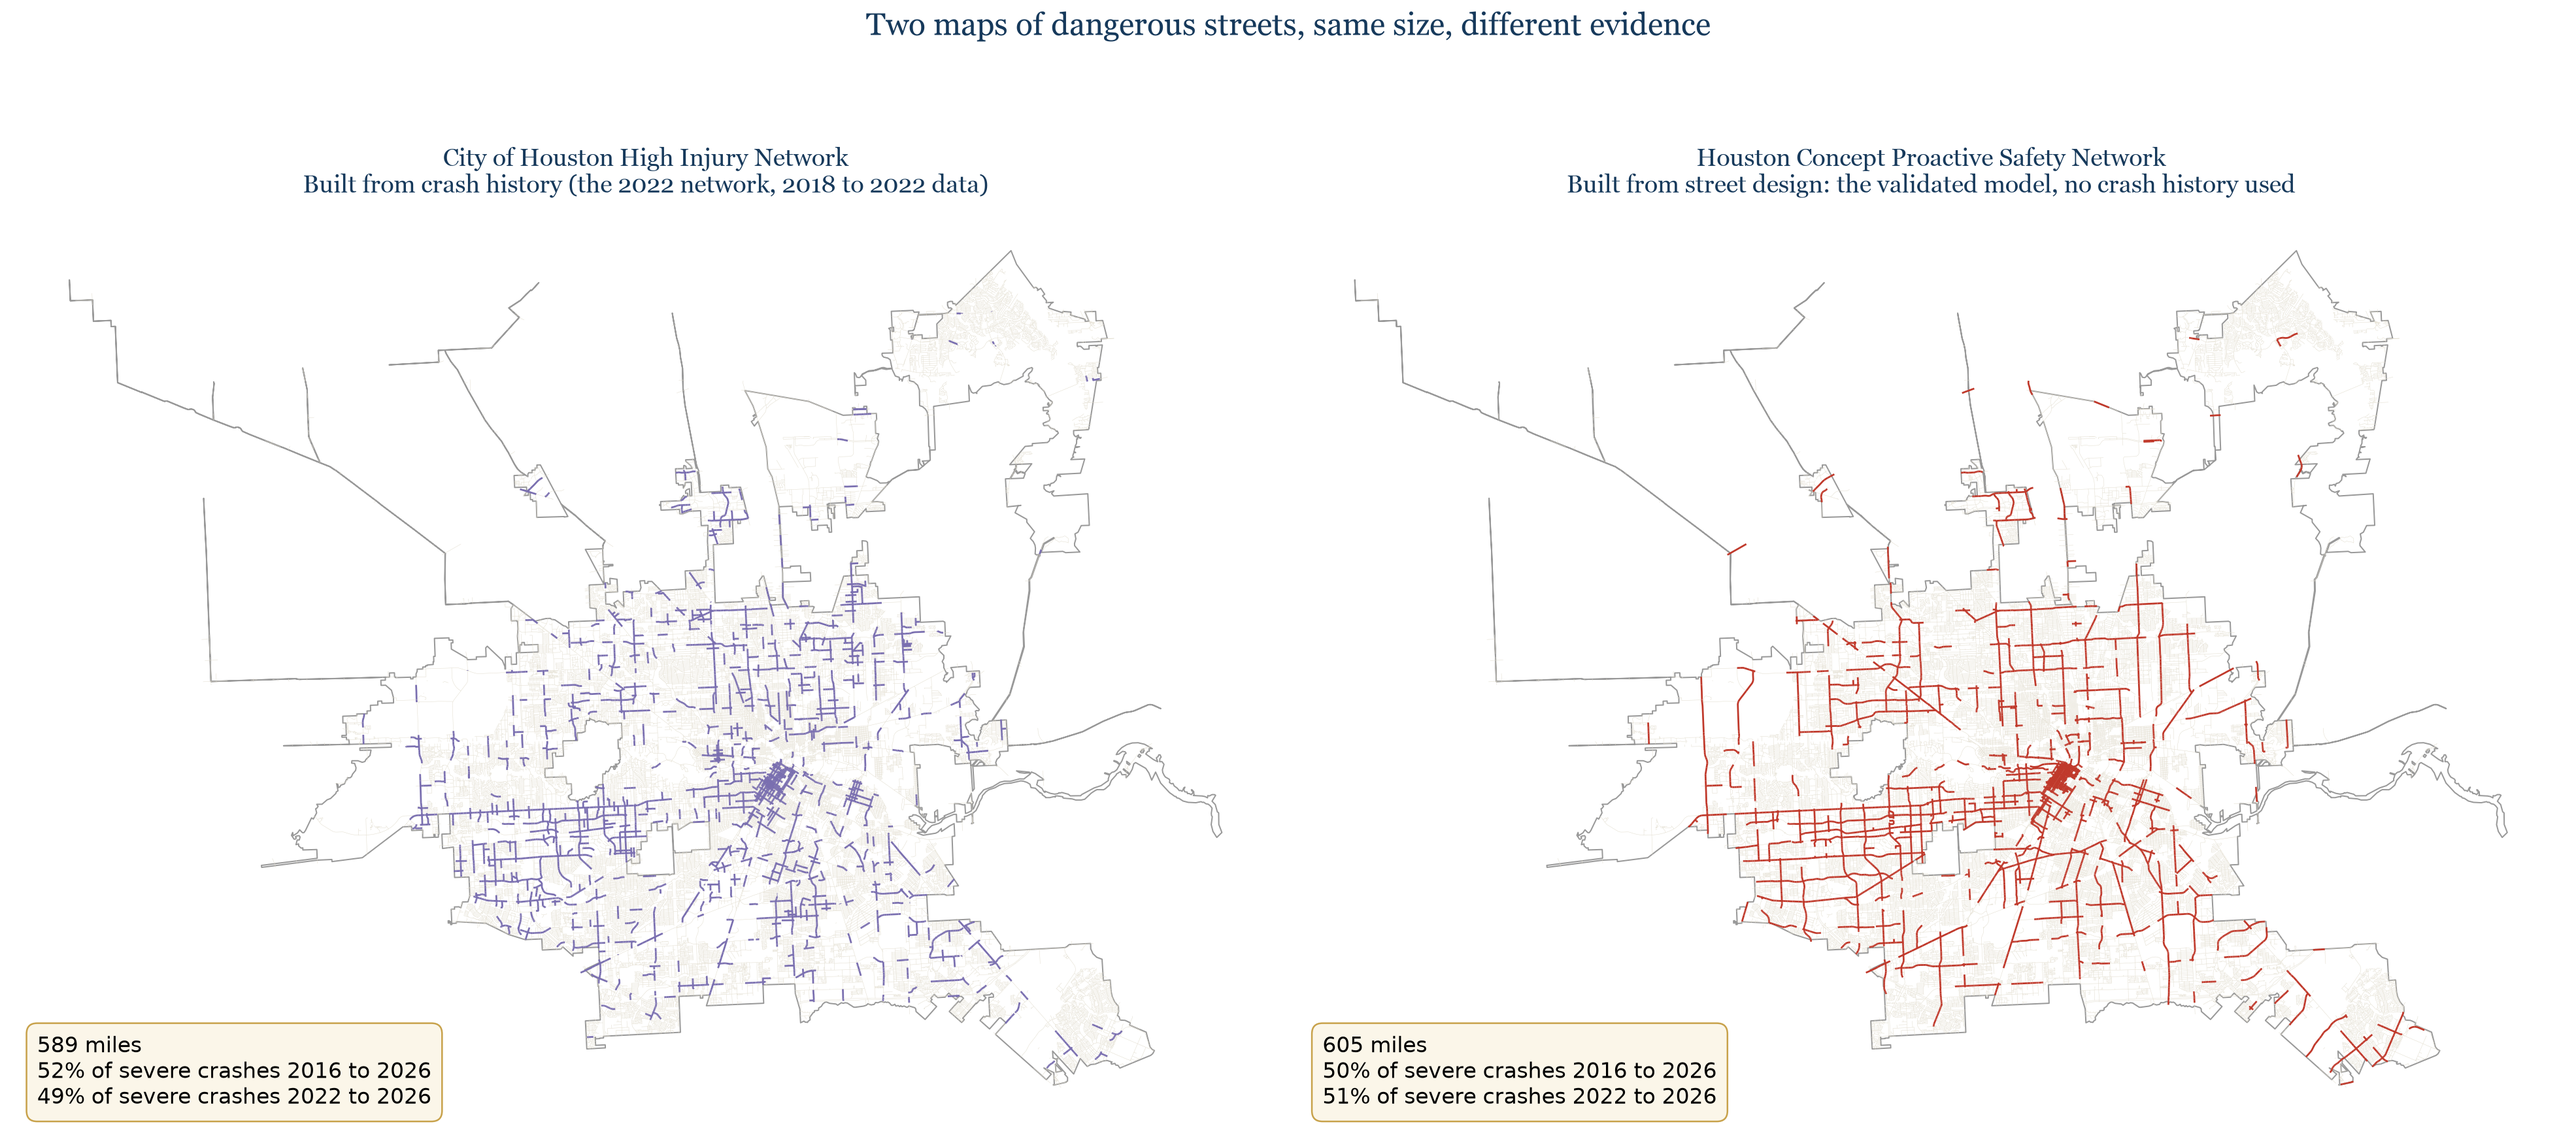
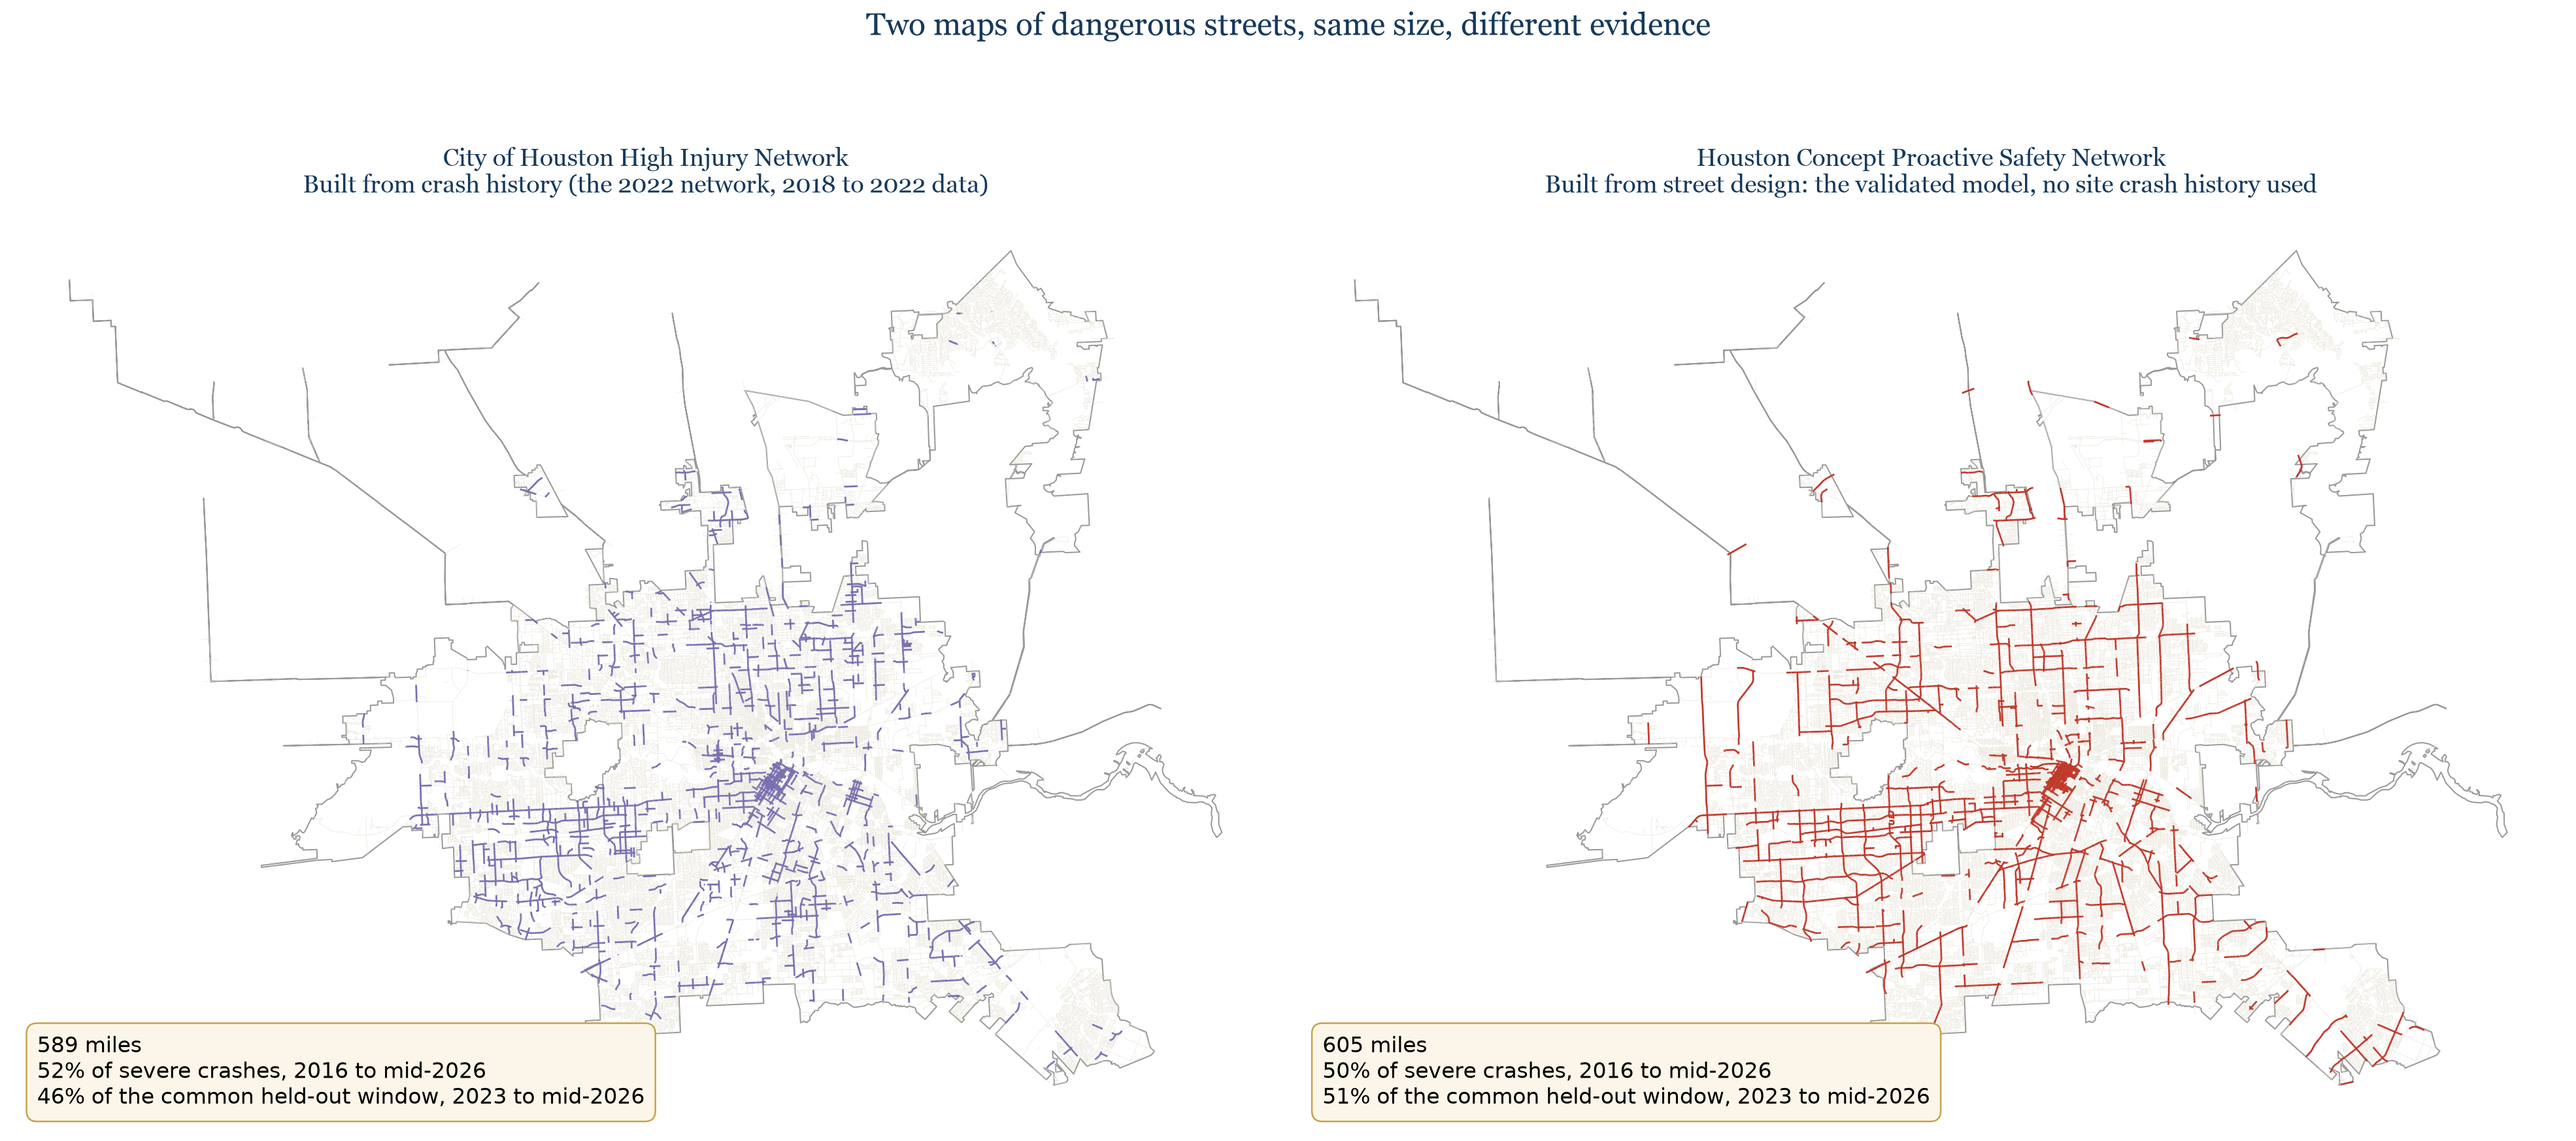
Figure wording audit: vintages Jaccard misstatement fixed, PSN legend aligned, primary-window stat boxes; dag.txt layered coordinates
- fig_hin_vintages (new script plot_hin_vintages.py): title had misstated
  the 0.42 mile-Jaccard as 'only 42% of miles survive' (survival is 54%);
  now 'mile overlap (Jaccard) between the 2022 and 2025 editions is 0.42',
  computed live from the layer.
- psn_map tiered legend aligned with round-2 language: 'HIN only: high
  historical harm, lower modeled design risk' (was 'crash history without
  current design signal'); 'dangerous by design' softened to 'high design
  risk'. Tiered map restored as a scripted output.
- hin_vs_psn stat boxes: primary common held-out window (2023 to mid-2026;
  HIN 46%, PSN 51%) replaces the unlabeled deployment window; 'no site
  crash history'; mid-2026 precision.
- dag.txt: layered coordinates matching the published Figure 1, so the
  dagitty.net render organizes identically.

diff --git a/src/plot_psn_map.py b/src/plot_psn_map.py
@@ -4,7 +4,9 @@ The PSN as a standalone deliverable (605 smoothed miles), one network in one
 color over the street grid, the way a city publishes its High Injury Network.
 No HIN reference; the PSN stands on its own.
 
-Output: reports/psn_only_map.png
+Outputs: reports/psn_only_map.png (standalone, one color)
+         reports/psn_map.png (tiered against the adopted HIN; paper Figure 5,
+         legend language aligned with Table 3 after review round 2)
 """
 
 import geopandas as gpd
@@ -46,6 +48,41 @@ def main():
     out = cfg.REPORTS / "psn_only_map.png"
     plt.savefig(out, bbox_inches="tight", facecolor="white")
     print(f"saved {out} | PSN {psn_mi:,.0f} mi")
+    tiered(seg, boundary)
+
+
+def tiered(seg, boundary):
+    """Paper Figure 5: the PSN tiered against the adopted HIN."""
+    tiers = [
+        ("psn_and_hin", "#6e1f2e",
+         "On both networks: high design risk and high crash history"),
+        ("psn_only", "#C0392B",
+         "PSN only: high design risk, absent from the adopted HIN"),
+        ("hin_only", "#7a6fb0",
+         "HIN only: high historical harm, lower modeled design risk"),
+    ]
+    fig, ax = plt.subplots(figsize=(15, 13), dpi=200)
+    boundary.plot(ax=ax, facecolor="none", edgecolor="#999999", linewidth=0.8)
+    seg.plot(ax=ax, color="#e2ddce", linewidth=0.25, zorder=1)
+    handles = []
+    for key, color, label in tiers:
+        sub = seg[seg.psn_tier == key]
+        mi = sub.length_ft.sum() / 5280
+        sub.plot(ax=ax, color=color, linewidth=1.2, zorder=2)
+        handles.append(Line2D([], [], color=color, linewidth=3,
+                              label=f"{label} ({mi:,.0f} mi)"))
+    handles.append(Line2D([], [], color="#e2ddce", linewidth=2,
+                          label="All other streets"))
+    ax.set_axis_off()
+    ax.set_title("Houston Concept Proactive Safety Network, "
+                 "tiered against the adopted HIN",
+                 fontsize=19, color="#16395B", fontfamily="Georgia", pad=14)
+    ax.legend(handles=handles, loc="lower left", fontsize=12.5, frameon=True,
+              facecolor="#FBF6E9", edgecolor="#C8A24B")
+    plt.tight_layout()
+    out = cfg.REPORTS / "psn_map.png"
+    plt.savefig(out, bbox_inches="tight", facecolor="white")
+    print(f"saved {out}")
 
 
 if __name__ == "__main__":

diff --git a/src/plot_hin_vintages.py b/src/plot_hin_vintages.py
@@ -1,0 +1,56 @@
+"""Paper Figure 6: the City's High Injury Network across three vintages.
+
+Replaces an ad-hoc render whose title misstated the 0.42 mile-Jaccard as
+"only 42% of miles survive" (the survival share of 2022 miles is 54%; 0.42
+is intersection over union). The Jaccard is computed live from the layer.
+
+Outputs: reports/fig_hin_vintages.png
+"""
+
+import geopandas as gpd
+import matplotlib
+matplotlib.use("Agg")
+import matplotlib.pyplot as plt
+
+import config as cfg
+
+PANELS = [
+    ("on_hin_2018", "HIN 2018", "2014 to 2018 data", "#b08d2f"),
+    ("on_hin",      "HIN 2022", "2018 to 2022 data", "#7a6fb0"),
+    ("on_hin_2025", "HIN 2025", "2021 to 2025 data", "#C0392B"),
+]
+
+
+def main():
+    seg = gpd.read_file(cfg.processed("segments_model.gpkg"),
+                        layer="segments").to_crs(2278)
+    boundary = gpd.read_file(cfg.DOCS / "boundary.geojson").to_crs(2278)
+
+    a = seg.on_hin.astype(bool)
+    b = seg.on_hin_2025.astype(bool)
+    mi = seg.length_ft / 5280
+    jac = mi[a & b].sum() / mi[a | b].sum()
+
+    fig, axes = plt.subplots(1, 3, figsize=(24, 8.5), dpi=170)
+    for ax, (col, name, window, color) in zip(axes, PANELS):
+        on = seg[seg[col].astype(bool)]
+        boundary.plot(ax=ax, facecolor="none", edgecolor="#999999",
+                      linewidth=0.7)
+        seg.plot(ax=ax, color="#e9e5d8", linewidth=0.15, zorder=1)
+        on.plot(ax=ax, color=color, linewidth=0.9, zorder=2)
+        ax.set_axis_off()
+        ax.set_title(f"{name}\n({window})\n"
+                     f"{on.length_ft.sum()/5280:,.0f} miles on this network",
+                     fontsize=14, color="#16395B", fontfamily="Georgia")
+    fig.suptitle("The City's High Injury Network across three vintages: "
+                 f"mile overlap (Jaccard) between the 2022 and 2025 editions "
+                 f"is {jac:.2f}",
+                 fontsize=17, color="#16395B", fontfamily="Georgia", y=0.99)
+    plt.tight_layout()
+    out = cfg.REPORTS / "fig_hin_vintages.png"
+    plt.savefig(out, bbox_inches="tight", facecolor="white")
+    print(f"saved {out} | Jaccard {jac:.3f}")
+
+
+if __name__ == "__main__":
+    main()

diff --git a/src/plot_hin_vs_psn.py b/src/plot_hin_vs_psn.py
@@ -27,19 +27,22 @@ def main():
     cr = cr[(cr.severe == 1) & cr.seg_id.notna()].copy()
     cr["date"] = pd.to_datetime(cr["date"])
     post = cr[cr.date >= "2022-01-01"].groupby("seg_id").size().rename("n_post")
-    seg = seg.merge(post, on="seg_id", how="left")
+    post23 = cr[cr.date >= "2023-01-01"].groupby("seg_id").size().rename("n_post23")
+    seg = seg.merge(post, on="seg_id", how="left").merge(post23, on="seg_id", how="left")
     seg["n_post"] = seg.n_post.fillna(0)
+    seg["n_post23"] = seg.n_post23.fillna(0)
 
     hin = seg[seg.on_hin.astype(bool)]
     psn = seg[seg.psn.astype(bool)]
     tot_all, tot_post = seg.n_severe.sum(), seg.n_post.sum()
+    tot_p23 = seg.n_post23.sum()
 
     panels = [
         ("City of Houston High Injury Network",
          "Built from crash history (the 2022 network, 2018 to 2022 data)",
          hin, "#7a6fb0"),
         ("Houston Concept Proactive Safety Network",
-         "Built from street design: the validated model, no crash history used",
+         "Built from street design: the validated model, no site crash history used",
          psn, "#C0392B"),
     ]
 
@@ -51,14 +54,14 @@ def main():
         net.plot(ax=ax, color=color, linewidth=1.1, zorder=2)
         mi = net.length_ft.sum() / 5280
         cap = 100 * net.n_severe.sum() / tot_all
-        cap_p = 100 * net.n_post.sum() / tot_post
+        cap_p23 = 100 * net.n_post23.sum() / tot_p23
         ax.set_axis_off()
         ax.set_title(f"{title}\n{sub}", fontsize=15, color="#16395B",
                      fontfamily="Georgia", pad=10)
         ax.text(0.02, 0.02,
                 f"{mi:,.0f} miles\n"
-                f"{cap:.0f}% of severe crashes 2016 to 2026\n"
-                f"{cap_p:.0f}% of severe crashes 2022 to 2026",
+                f"{cap:.0f}% of severe crashes, 2016 to mid-2026\n"
+                f"{cap_p23:.0f}% of the common held-out window, 2023 to mid-2026",
                 transform=ax.transAxes, fontsize=13, va="bottom",
                 bbox=dict(facecolor="#FBF6E9", edgecolor="#C8A24B",
                           boxstyle="round,pad=0.5"))
